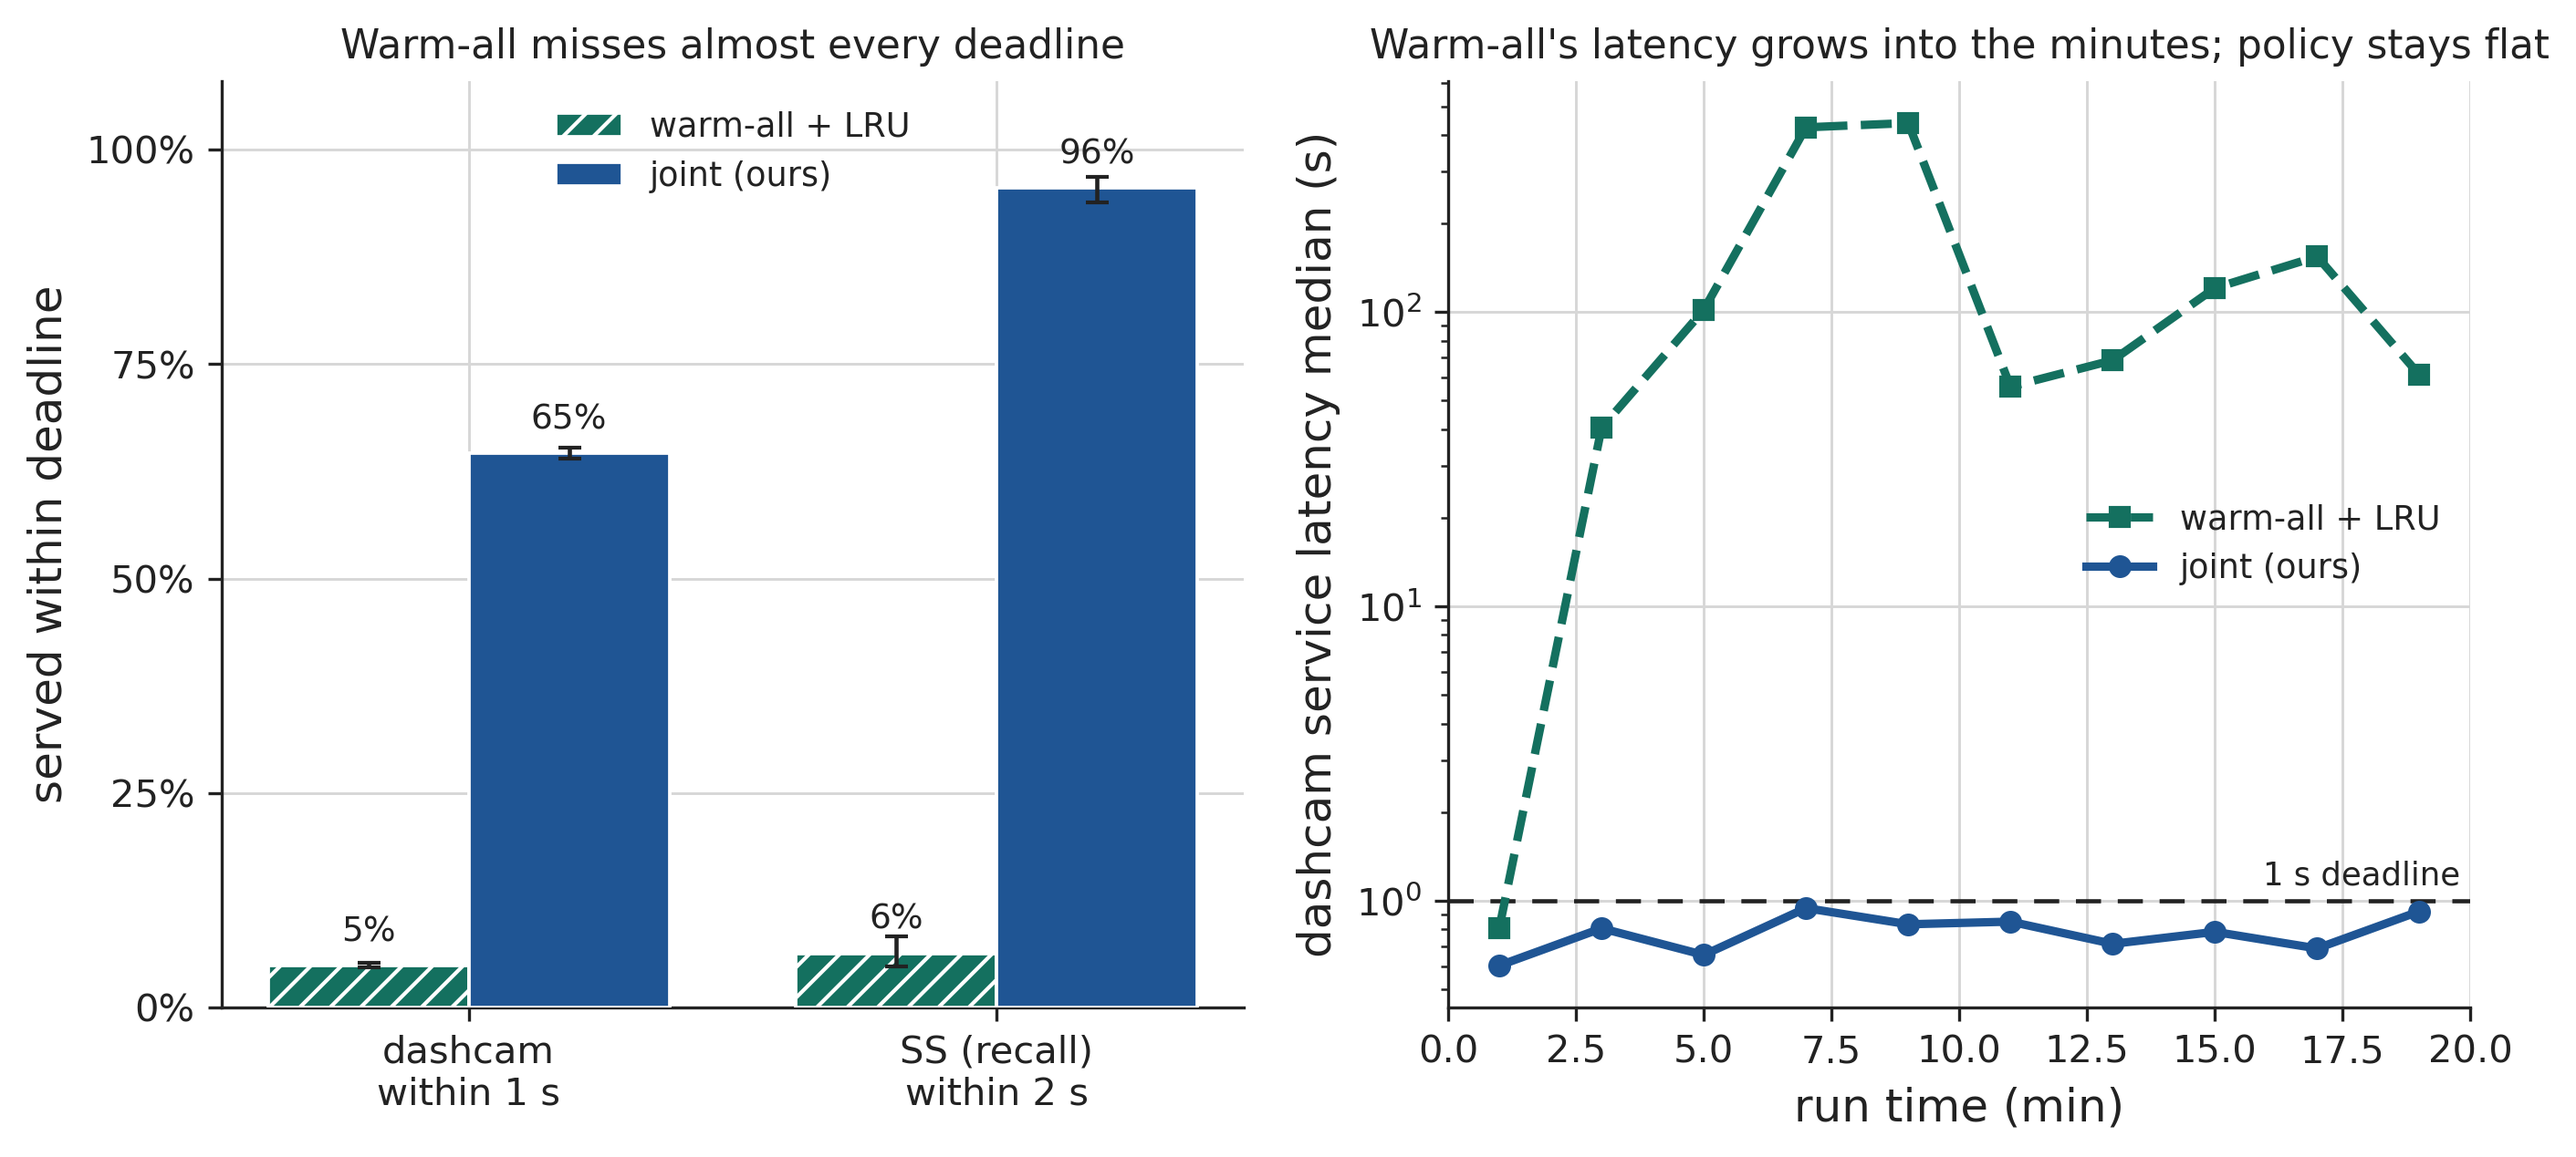
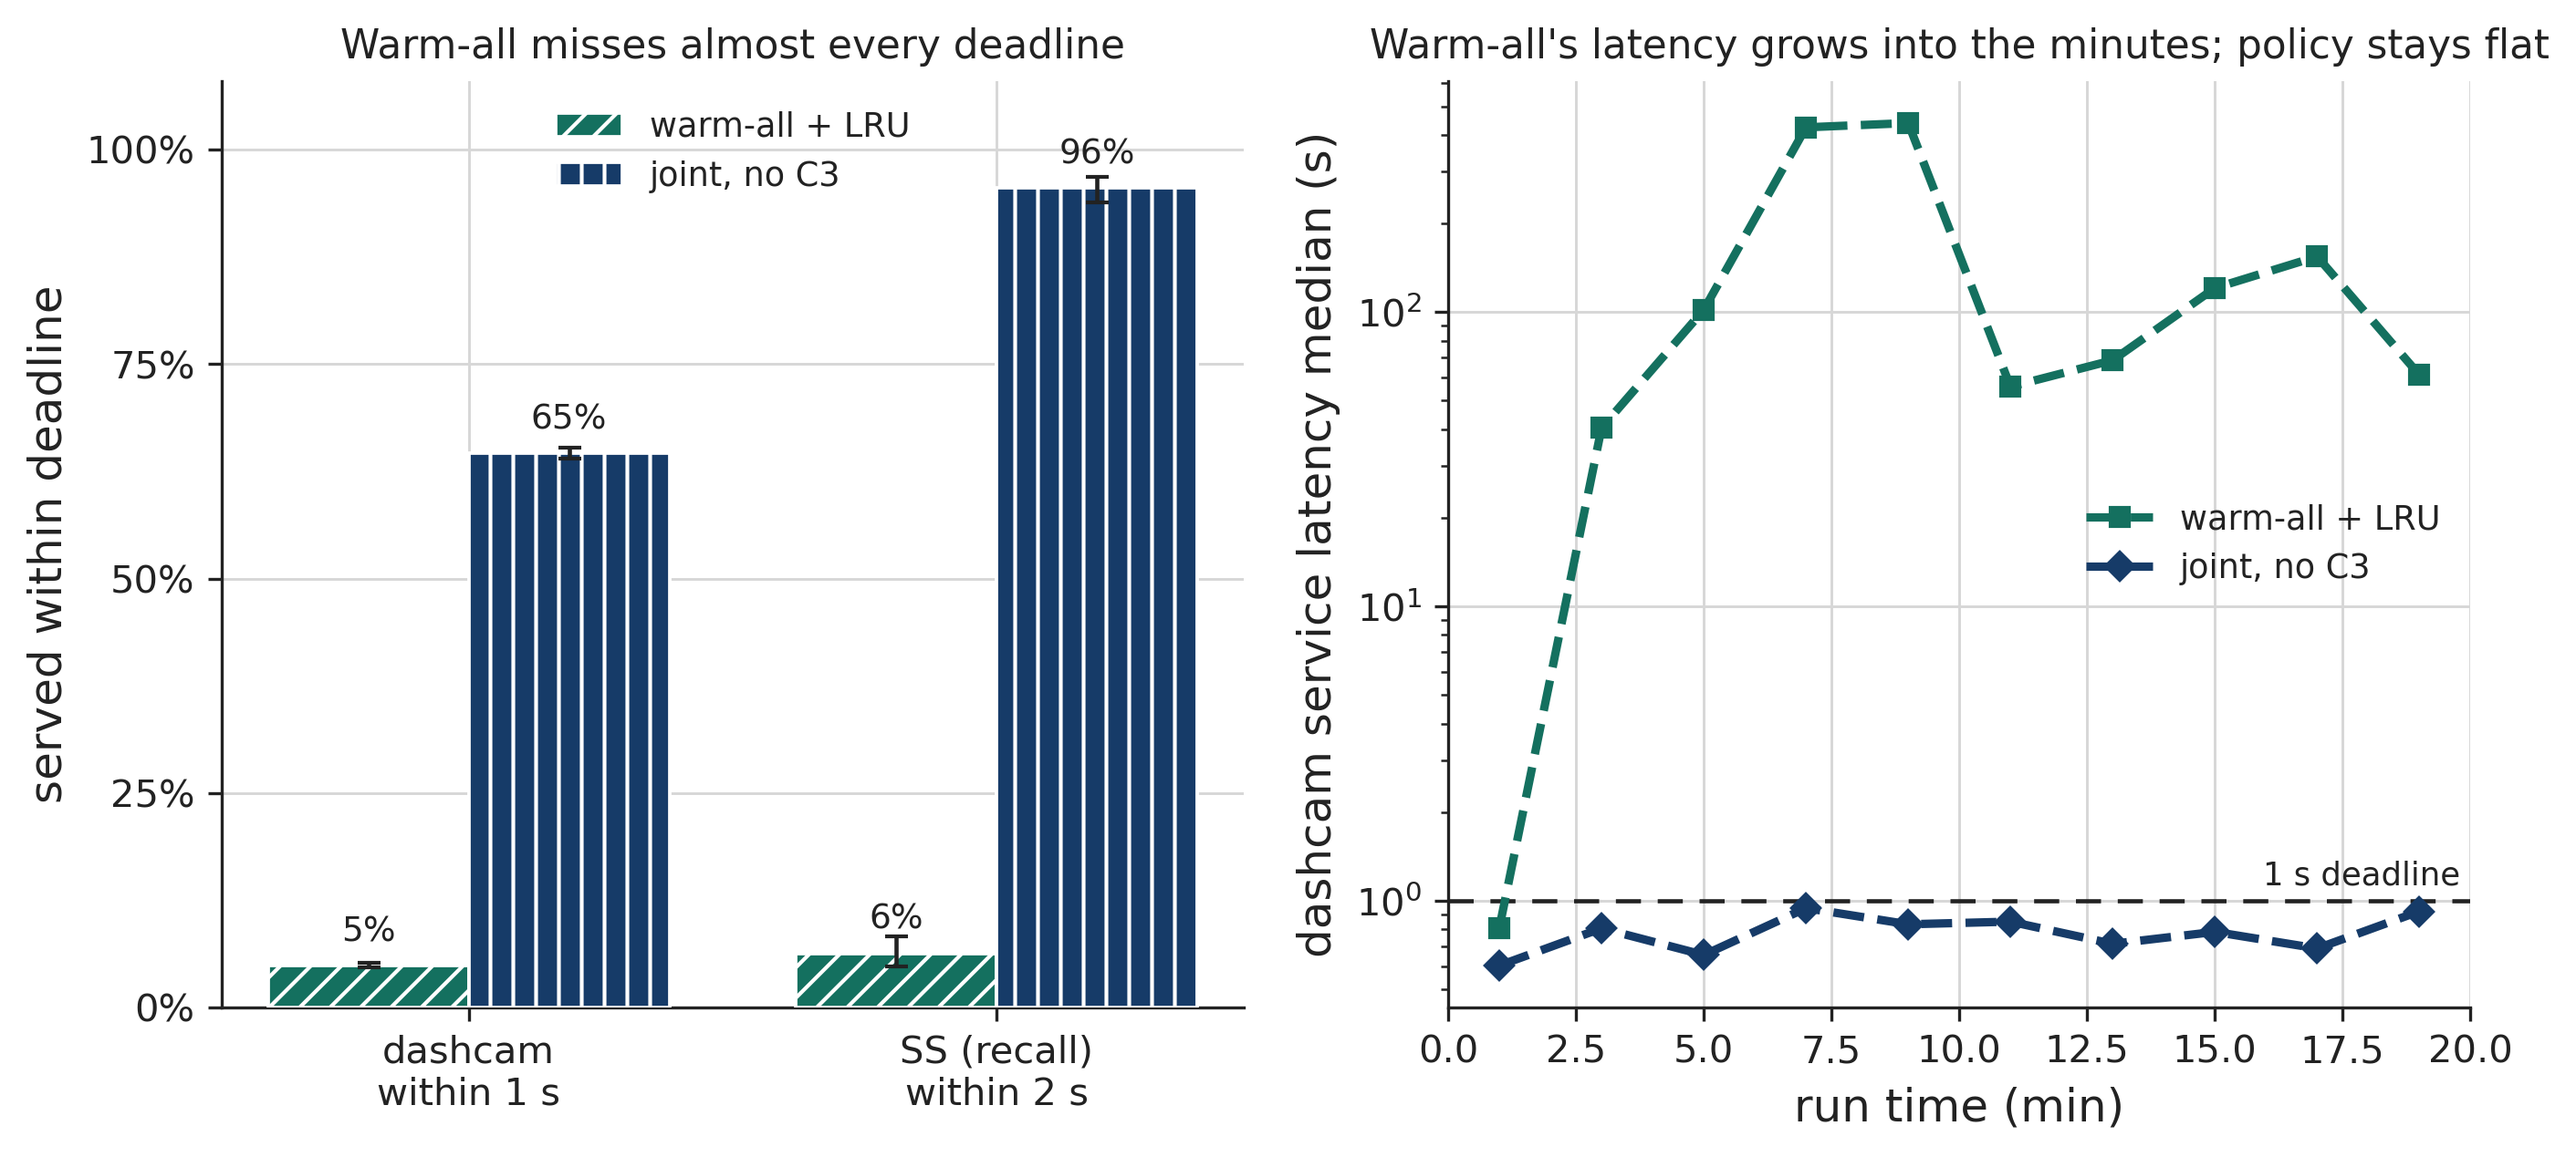
StudyFIG-mot

diff --git a/experiments/figures/figlib.py b/experiments/figures/figlib.py
@@ -106,38 +106,57 @@ class Arm:
         return kw
 
 
-# Proposed policy first (hero, blue, solid). Then warming baseline (green),
-# cascade-routing (purple, dashdot + triangle so it stays distinct from blue
-# under CVD), eco-llm (risk/orange), then static baselines in grey. Order is the
-# legend and plotting order in every figure.
+# Proposed policy first (hero, blue, solid). hybrid-F-lhreq (full joint policy) and
+# hybrid-F-lhreq-noc3 (the no-C3 ablation) are DISTINCT arms and must stay separable,
+# so the ablation takes a darker blue with its own dashed line and diamond marker. Then
+# the warming baseline (green), cascade-routing (purple), eco-llm (risk/orange), and the
+# remaining baselines in greys/shades, each with its own linestyle and marker so identity
+# never rests on hue alone. Order is the legend and plotting order in every figure.
 ARMS = {
-    "hybrid-F-lhreq-noc3": Arm("hybrid-F-lhreq-noc3", "joint (ours)", BLUE, 0, "-", "o"),
-    "warm-all-lru":        Arm("warm-all-lru", "warm-all + LRU", GREEN, 1, "--", "s", "///"),
-    "cascade-routing":     Arm("cascade-routing", "cascade-routing", PURPLE, 2, "-.", "^", "xxx"),
-    "eco-llm":             Arm("eco-llm", "eco-llm", RISK, 3, ":", "D", "..."),
-    "always-local":        Arm("always-local", "always-local", GREY, 4, "-", "v", ""),
-    "always-cloud":        Arm("always-cloud", "always-cloud", shade(GREY, 0.35), 5, "--", "P", "\\\\"),
-    "no-warm":             Arm("no-warm", "no warming", LIGHT_GREY, 6, ":", "x", ""),
+    "hybrid-F-lhreq":      Arm("hybrid-F-lhreq", "joint (ours)", BLUE, 0, "-", "o"),
+    "hybrid-F-lhreq-noc3": Arm("hybrid-F-lhreq-noc3", "joint, no C3", shade(BLUE, 0.3), 1, "--", "D", "||"),
+    "hybrid-F6-lhreq":     Arm("hybrid-F6-lhreq", "joint F6", tint(BLUE, 0.4), 2, ":", "P", "--"),
+    "warm-all-lru":        Arm("warm-all-lru", "warm-all + LRU", GREEN, 3, "--", "s", "///"),
+    "warm-all-lru-reactive": Arm("warm-all-lru-reactive", "warm-all reactive", tint(GREEN, 0.4), 4, "-.", "v", "\\\\"),
+    "warm-all-lru-off":    Arm("warm-all-lru-off", "no warming (base)", LIGHT_GREY, 5, ":", "x", ""),
+    "cascade-routing":     Arm("cascade-routing", "cascade-routing", PURPLE, 6, "-.", "^", "xxx"),
+    "eco-llm":             Arm("eco-llm", "eco-llm", RISK, 7, ":", "v", "..."),
+    "mooncake":            Arm("mooncake", "mooncake", shade(PURPLE, 0.3), 8, "--", "P", "\\\\"),
+    "querystream-proactive": Arm("querystream-proactive", "querystream", tint(PURPLE, 0.35), 9, ":", "<", ""),
+    "r3-streaming":        Arm("r3-streaming", "r3-streaming", tint(RISK, 0.35), 10, "-.", ">", ""),
+    "simplestream":        Arm("simplestream", "simplestream", shade(RISK, 0.3), 11, "--", "h", ""),
+    "edf":                 Arm("edf", "EDF", GREY, 12, "-", "x", ""),
+    "llf":                 Arm("llf", "LLF", shade(GREY, 0.3), 13, "--", "+", ""),
+    "b7-edf-feasibility":  Arm("b7-edf-feasibility", "EDF-feasibility (b7)", shade(GREY, 0.5), 14, "-", "*", ""),
+    "v5-rules":            Arm("v5-rules", "v5-rules", tint(BLUE, 0.2), 15, "-.", "8", ""),
+    "always-local":        Arm("always-local", "always-local", GREY, 16, "-", "1", ""),
+    "always-cloud":        Arm("always-cloud", "always-cloud", shade(GREY, 0.35), 17, "--", "2", "\\\\"),
+    "always-cloud-fcfs":   Arm("always-cloud-fcfs", "always-cloud FCFS", shade(GREY, 0.2), 18, ":", "3", ""),
 }
 
-ALIASES = {
-    "hybrid-F-lhreq-noc3": "hybrid-F-lhreq-noc3",
+ALIASES = {k: k for k in ARMS}
+ALIASES.update({
+    "hybrid-f-lhreq": "hybrid-F-lhreq",
     "hybrid-f-lhreq-noc3": "hybrid-F-lhreq-noc3",
-    "hybrid-F-lhreq": "hybrid-F-lhreq-noc3",
-    "hybrid-f-lhreq": "hybrid-F-lhreq-noc3",
-    "warm-all-lru": "warm-all-lru",
+    "hybrid-f6-lhreq": "hybrid-F6-lhreq",
     "warm-all": "warm-all-lru",
-    "cascade-routing": "cascade-routing",
-    "eco-llm": "eco-llm",
-    "always-local": "always-local",
-    "always-cloud": "always-cloud",
-    "no-warm": "no-warm",
-}
+    "b7": "b7-edf-feasibility",
+})
+
+# distinct fallback styles for an arm not in the registry (grey, never a brand hue)
+_FALLBACK_MARKERS = ["o", "s", "^", "D", "v", "P", "X", "*", "h", "<", ">", "p"]
+_fallback_cache = {}
 
 
 def arm(name: str) -> Arm:
     key = ALIASES.get(name, ALIASES.get(name.lower(), name))
-    return ARMS[key]
+    if key in ARMS:
+        return ARMS[key]
+    if key not in _fallback_cache:
+        i = len(_fallback_cache)
+        _fallback_cache[key] = Arm(key, key, shade(GREY, 0.15 * (i % 3)), 100 + i,
+                                   ["-", "--", ":"][i % 3], _FALLBACK_MARKERS[i % len(_FALLBACK_MARKERS)])
+    return _fallback_cache[key]
 
 
 def arms_in_order(names):
